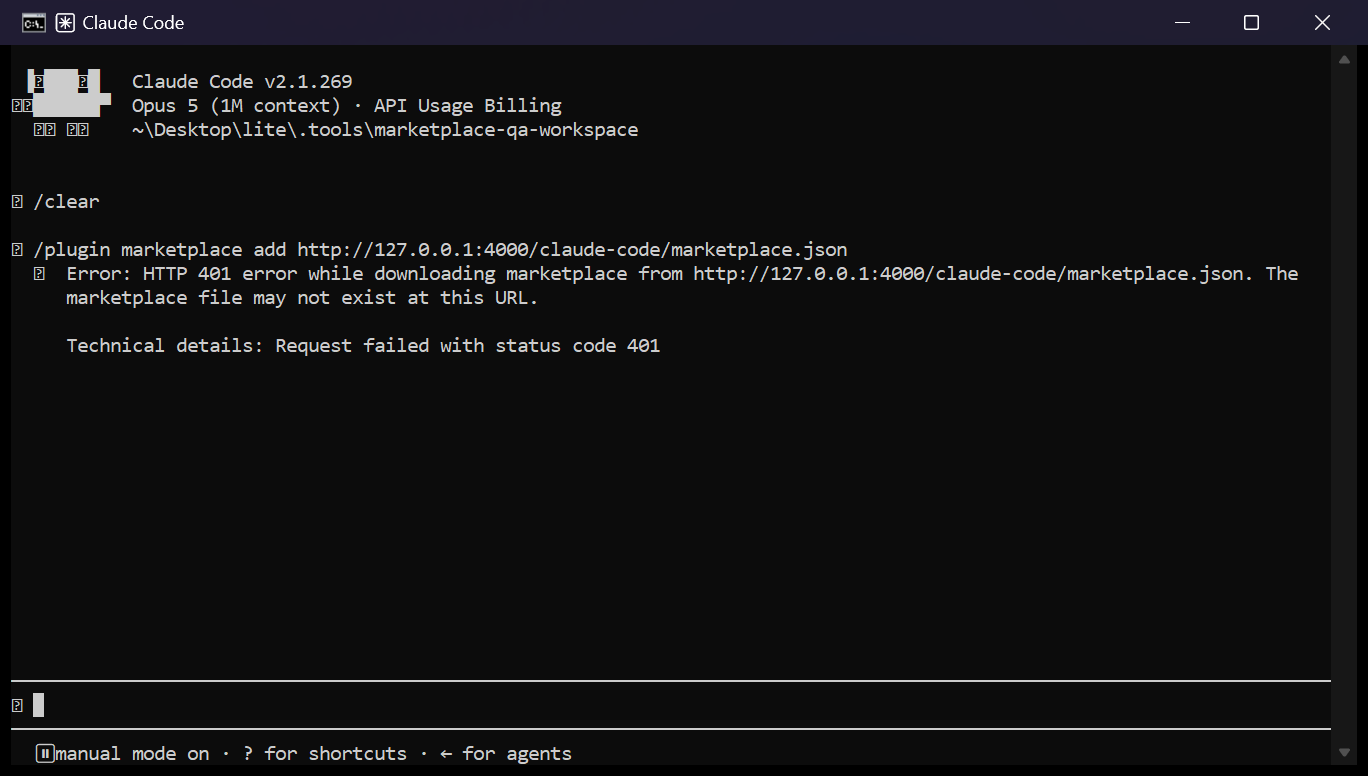
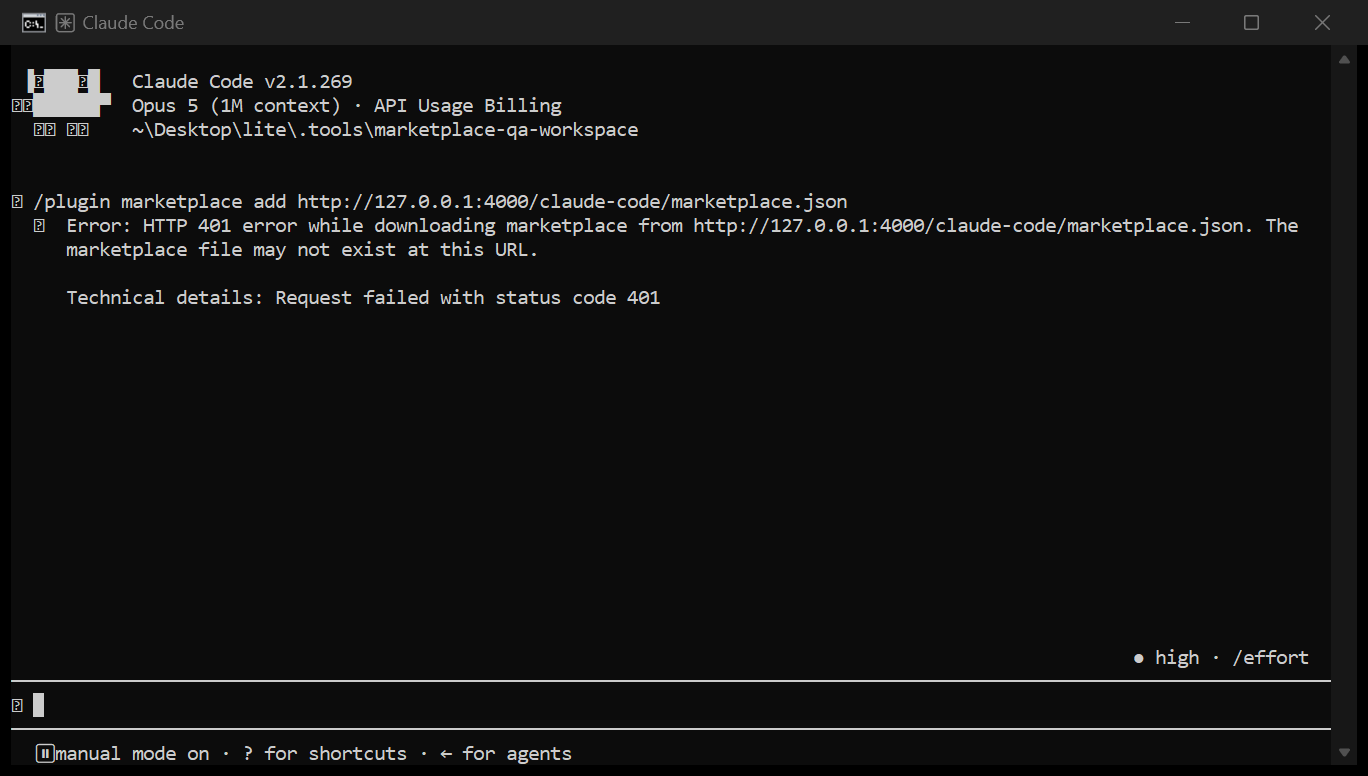
docs: refresh marketplace authentication proof

diff --git a/README.md b/README.md
@@ -4,7 +4,7 @@ Interactive Claude Code `/plugin marketplace add http://127.0.0.1:4000/claude-co
 
 Before: `e73f949fbb735b344f75e5f8c395344bf4cfdb54`, marketplace added without credentials
 
-After: `97fcc19a32b47def0d1ba6de28e70915adabd00e`, anonymous access rejected with HTTP 401
+After: `cf3621d9b3a7d300b2f0dd866fccf1b889e39c5a`, anonymous access rejected with HTTP 401
 
 Captured on 2026-09-23 using Claude Code 2.1.269. These are captures of the actual interactive terminal window. No model inference was needed for catalog discovery
 
